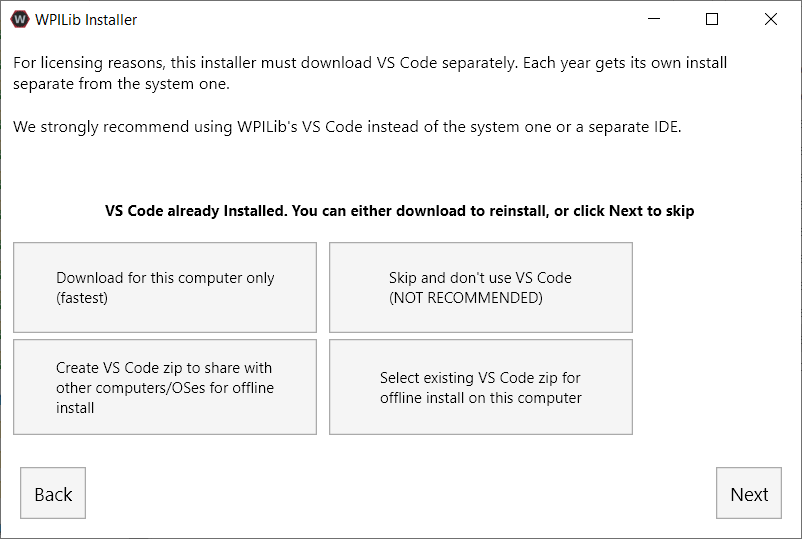
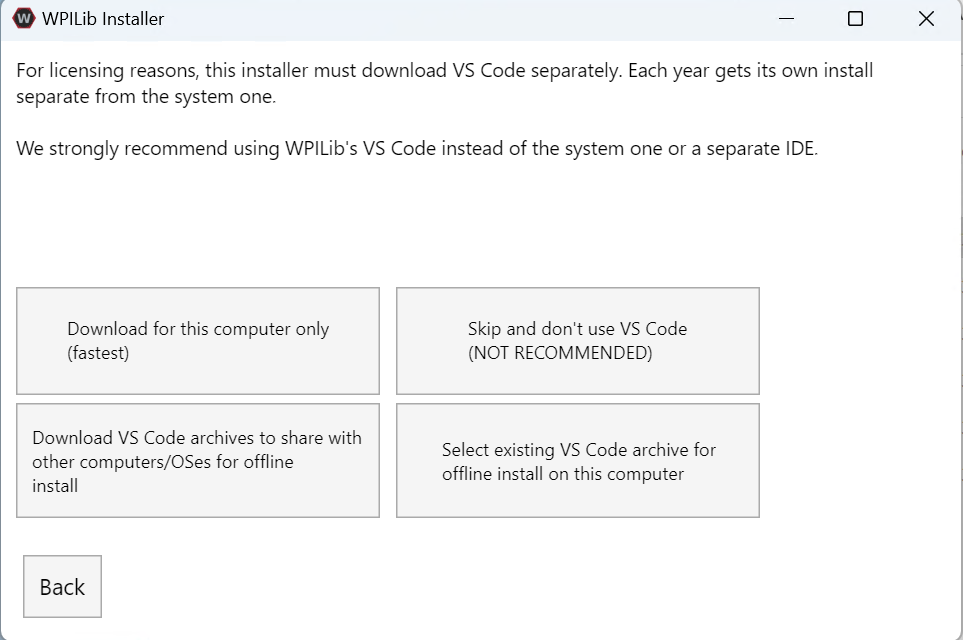
Update WPILib installation for individual zips
Matches wpilibsuite/WPILibInstaller-Avalonia#342

diff --git a/source/docs/zero-to-robot/step-2/wpilib-setup.rst b/source/docs/zero-to-robot/step-2/wpilib-setup.rst
@@ -111,11 +111,11 @@ This next screen involves downloading VS Code. Unfortunately, due to licensing r
 
   - Skips installing VS Code. Useful for advanced installations or configurations. Generally not recommended.
 
-- Select existing VS Code zip for offline install on this computer
+- Select existing VS Code archive for offline install on this computer
 
   - Selecting this option will bring up a prompt allowing you to select a pre-existing zip file of VS Code that has been downloaded by the installer previously. This option does **not** let you select an already installed copy of VS Code on your machine.
 
-- Create VS Code zip to share with other computers/OSes for offline install
+- Create VS Code archives to share with other computers/OSes for offline install
 
   - This option downloads and saves a copy of VS Code for all platforms, which is useful for sharing the copy of the installer.
 
